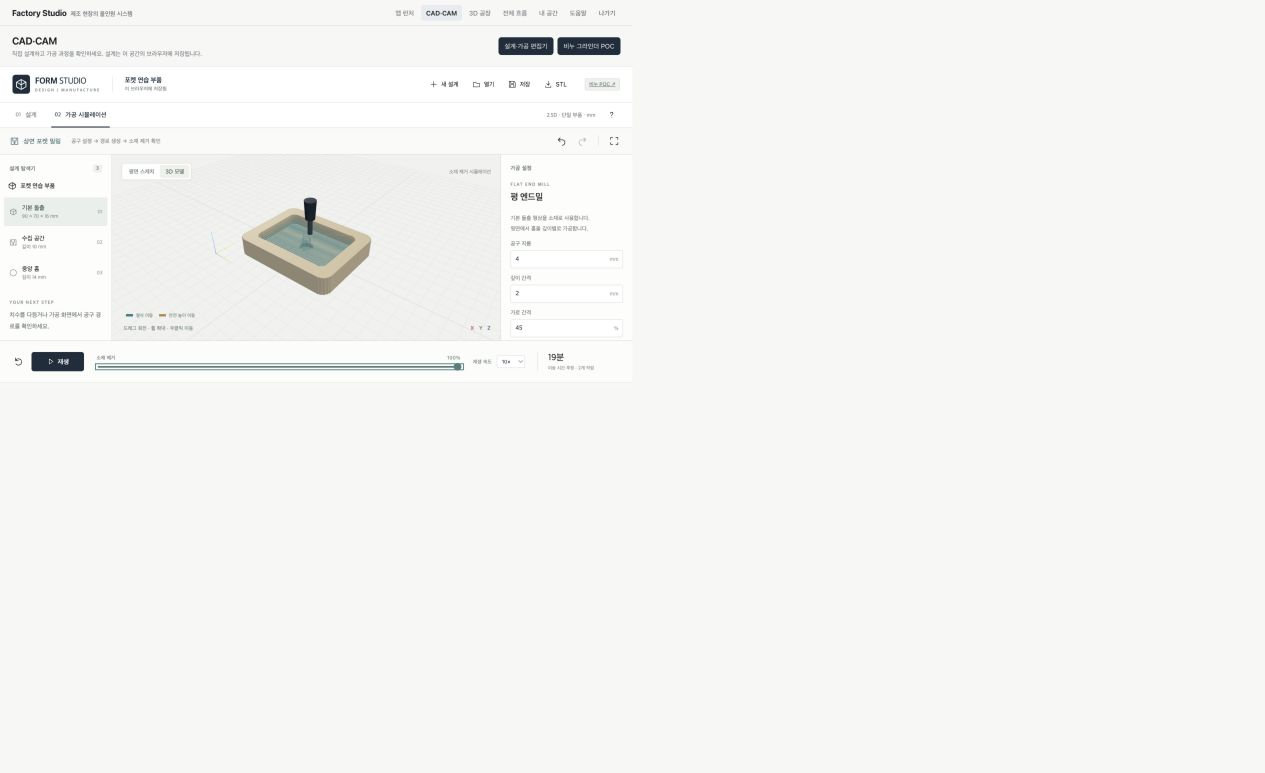
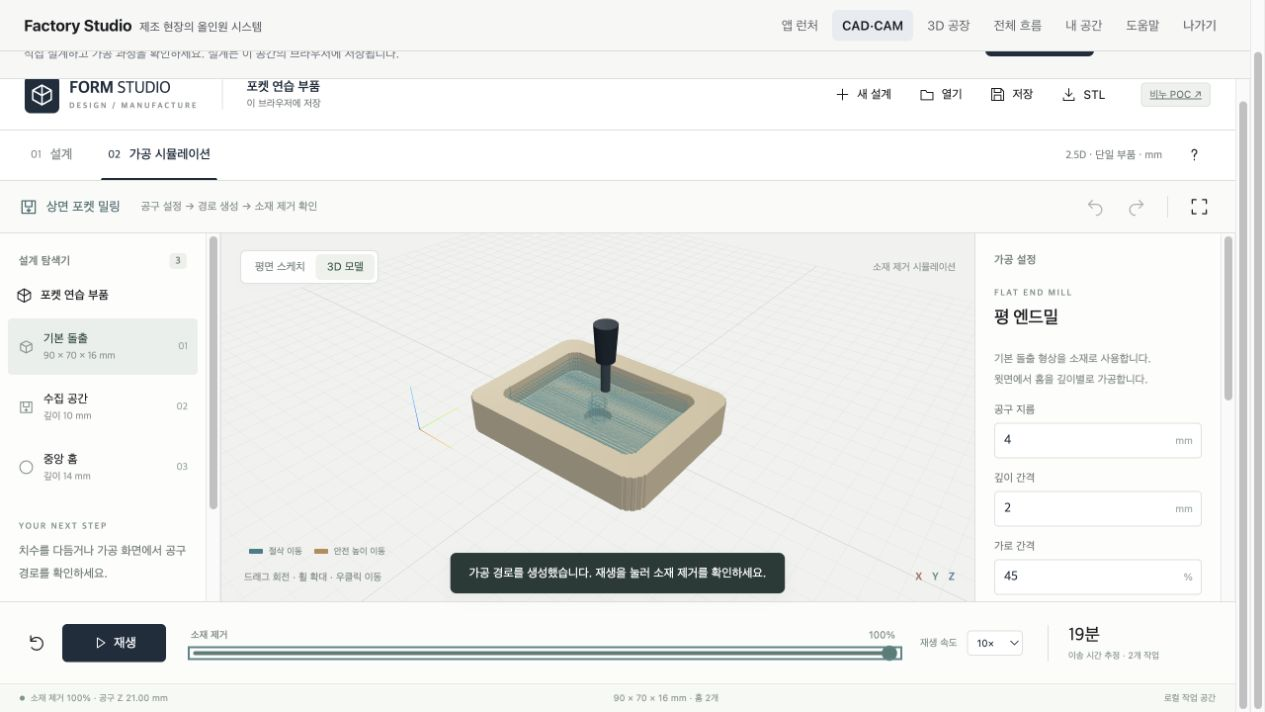
docs(cad): record main integration and final browser evidence

diff --git a/docs/plan/현재기획_진행현황.md b/docs/plan/현재기획_진행현황.md
@@ -9,7 +9,7 @@
 
 ## CAD-02 포털 통합 (2026-10-05)
 
-- 사용자 명시 승인으로 로그인 후 앱 런처 오른쪽 CAD·CAM 메뉴, 편집기/비누 POC 연결 완료(범위100%). [설계](../modules/cad-cam/README.md) · [검증](../agent/CAD_CAM_포털통합_CAD-02.md).
+- 사용자 명시 승인으로 로그인 후 앱 런처 오른쪽 CAD·CAM 메뉴, 편집기/비누 POC 연결 완료(범위100%, 로컬 main 반영·빌드 확인). [설계](../modules/cad-cam/README.md) · [검증](../agent/CAD_CAM_포털통합_CAD-02.md).
 - frontend521·관련 최종3/prototype13·build/lint/format 통과. 모의 로그인 브라우저에서 CAM100%·POC/STL·복귀 설계 유지 확인. 실제 인증/운영·실물은 미검증.
 - 남은 일: 사용자 검토 후 운영 반영/실물 시험. 서버 저장 없음, 로컬 공간+세대별 저장. 다른 업무 솔루션의 ROADMAP-02는 유지. 원격 push·배포 없음.
 

diff --git a/docs/progress.md b/docs/progress.md
@@ -1,5 +1,6 @@
 # 개발 진행 기록
 
+최종 반영 확인(2026-10-05): CAD-02 `649e372` 로컬 main fast-forward 완료. main에서 Node24 frontend npm ci/build 성공, Git 미커밋 변경 없음 확인. 최종 화면 기록 크기 보정. 원격 push·배포 없음.
 ## 2026-10-05 CAD-02 로그인 포털 CAD·CAM 메뉴 통합
 
 - 사용자 지시로 앱 런처 바로 오른쪽 메뉴·Private 경로·편집기/POC 전환·빌드 자산 자동 포함. 브라우저 저장 공간/세대 분리, 하위 경로 다운로드/worker 대응. [보고](agent/CAD_CAM_포털통합_CAD-02.md).

diff --git a/docs/agent/HANDOFF.md b/docs/agent/HANDOFF.md
@@ -1,5 +1,6 @@
 # Factory Studio 작업 인계
 
+최종 반영 확인(2026-10-05): CAD-02 `649e372` 로컬 main fast-forward 완료. main에서 Node24 frontend npm ci/build 성공, Git 미커밋 변경 없음 확인. 최종 화면 기록 크기 보정. 원격 push·배포 없음.
 ## Codex 최신 상태 — 2026-10-05 CAD-02 포털 통합 완료
 
 - branch `codex/soap-cad-review`, worktree `/Users/hwang-kyoungho/.codex/worktrees/soap-cad-review/factory-studio`. POC 커밋1a364f7, 최종 통합 커밋 `git log -1`; main의 DSN-29 기준표까지 병합 보존.
